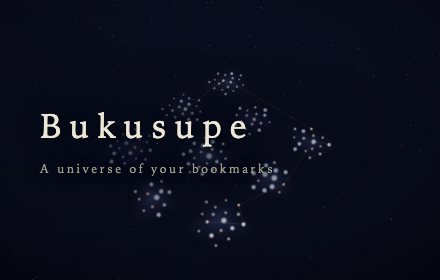
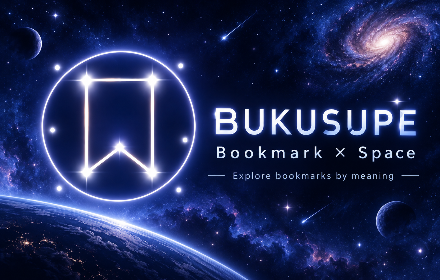
docs(store): update Chrome Web Store promo assets

diff --git a/docs/store/listing.ja.md b/docs/store/listing.ja.md
@@ -67,7 +67,7 @@ F キーで、星が立ち上がった立体の宇宙へ。宇宙船で星団の
 
 ## 掲載用の画像
 
-`docs/store/assets/`（`npm run store:assets` で作り直せる）。スクリーンショットは英語の画面（`en/`、主の掲載）と日本語の画面（`ja/`、日本語の掲載）の 2 組。
+`docs/store/assets/`（スクリーンショットとストア用のアイコンは `npm run store:assets` で作り直せる。宣伝用の画像は手で作った画像をリポジトリで管理し、スクリプトでは作らない。元の高解像度の画像は `promo-small-1572x1001.png`・`promo-marquee-1983x793.png`）。スクリーンショットは英語の画面（`en/`、主の掲載）と日本語の画面（`ja/`、日本語の掲載）の 2 組。
 サンプルの宇宙のブックマークは、画面の言語に合わせて英語・日本語それぞれのサンプルを撮っている。宣伝用の画像は言語ごとに変えられないので、文字は英語だけ。
 
 | ファイル | 大きさ | 内容 |

diff --git a/docs/store/listing.en.md b/docs/store/listing.en.md
@@ -68,7 +68,7 @@ Bugs and requests: https://github.com/j341nono/bukusupe/issues
 
 ## Images
 
-`docs/store/assets/` (regenerate with `npm run store:assets`). Screenshots are in English (`en/`) for the primary listing and in Japanese (`ja/`)
+`docs/store/assets/` (screenshots and the store icon regenerate with `npm run store:assets`; the promo images are hand-made and kept in the repository, with high-resolution originals `promo-small-1572x1001.png` and `promo-marquee-1983x793.png`). Screenshots are in English (`en/`) for the primary listing and in Japanese (`ja/`)
 for the Japanese listing. Each set's sample universe is shot in the matching language (English or Japanese).
 The promotional images cannot differ by language, so they use English text only.
 
